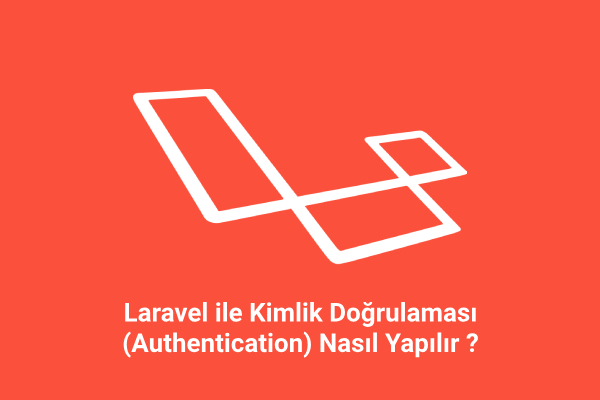
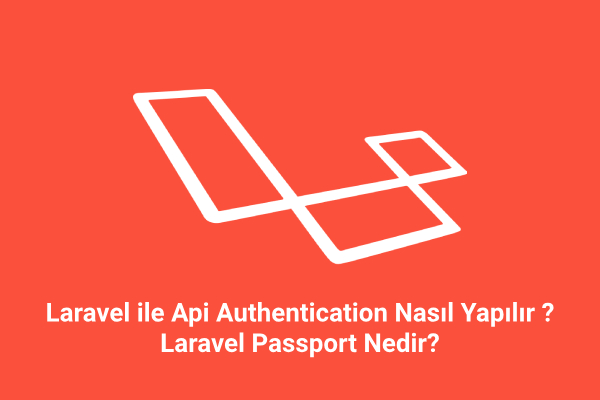
updated: laravel api authentication post

Changed region(s): [[0.06, 0.75, 0.93, 0.9]]

diff --git a/_posts/2019-04-15-laravel-ile-api-authentication-nasil-yapilir-laravel-passport-nedir.md b/_posts/2019-04-15-laravel-ile-api-authentication-nasil-yapilir-laravel-passport-nedir.md
@@ -1,14 +1,14 @@
 ---
 layout: post
 title:  "Laravel ile Api Authentication Nasıl Yapılır ? Laravel Passport Nedir ?"
-description: "Bu makalede Laravel ile api kimlik doğrulaması (Authentication) nasıl yapılır ? Laravel Passport Nedir ? vb. sorulara cevap arıyacağız ve örnek bir uygulama yapacağız."
+description: "Bu makalede Laravel ile api authentication (kimlik doğrulaması) nasıl yapılır ? Laravel Passport Nedir ? vb. sorulara cevap arıyacağız ve örnek bir uygulama geliştireceğiz."
 keywords: laravel, api, laravel Passport, authentication, kimlik doğrulama, laravel api authentication, postman, yazılım, software
 image: /assets/posts/8/laravel-passpot-ile-authentication-nasil-yapilir.jpg
 tags: [laravel, api, laravel Passport, authentication, kimlik doğrulama, laravel api authentication, postman, yazılım, software]
 categories: [laravel, api, yazılım, software]
 ---
 
-**Laravel ile api kimlik doğrulaması(authentication)** yapmak için bir çok farklı yöntem ve paket mevcut.
+**Laravel ile api authentication (kimlik doğrulaması)** yapmak için bir çok farklı yöntem ve paket mevcut.
 Bugün bu paketlerden, Laravel' in resmi paketi olan **Laravel Passport** paketi ile api kimlik doğrulama işlemini gerçekleştireceğiz.
 
 Gereksinimler:
@@ -26,7 +26,7 @@ Günümüz projeleri, Masaüstü, Tarayıcı, Mobil vb. birden çok platforma ç
 --- -->
 
 #### Laravel Passport Nedir ?
-Laravel ile yazdığımız apilerde kimlik doğrulaması(authentication) yapabilmemizi kolaylaştıran resmi laravel paketidir.
+Laravel ile yazdığımız apilerde authentication (kimlik doğrulaması) yapabilmemizi kolaylaştıran resmi laravel paketidir.
 
 ---
 
